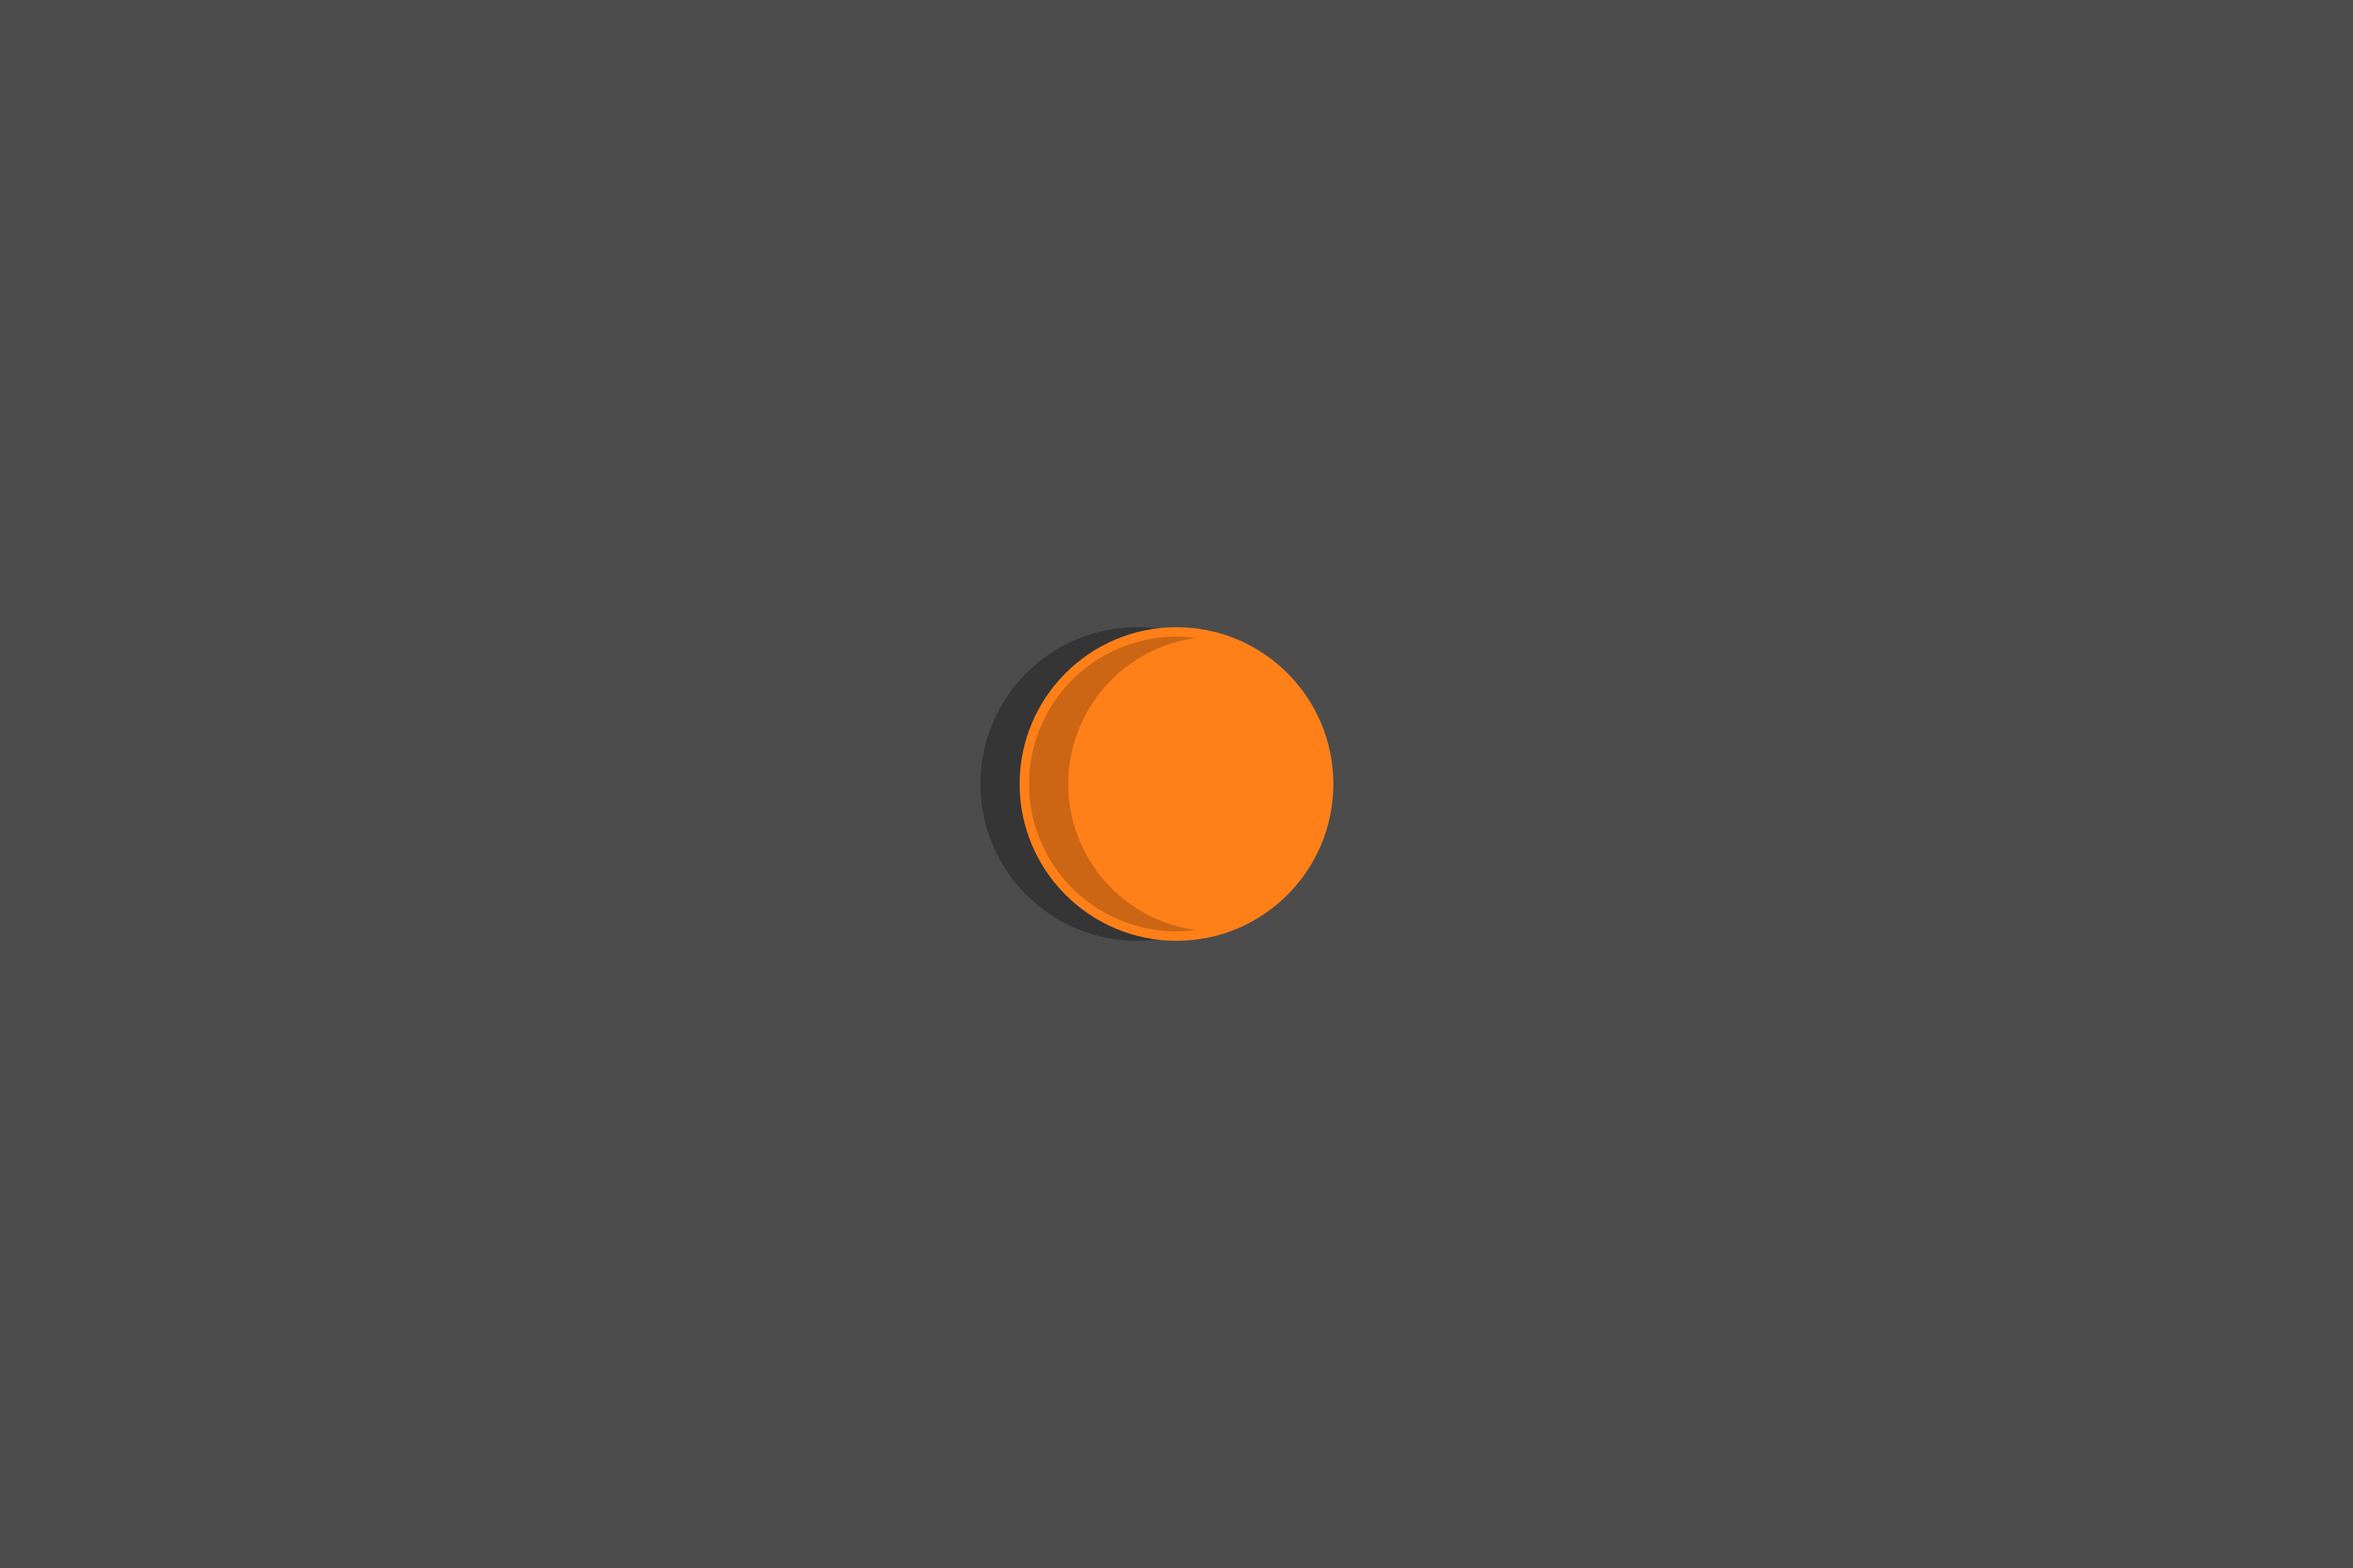
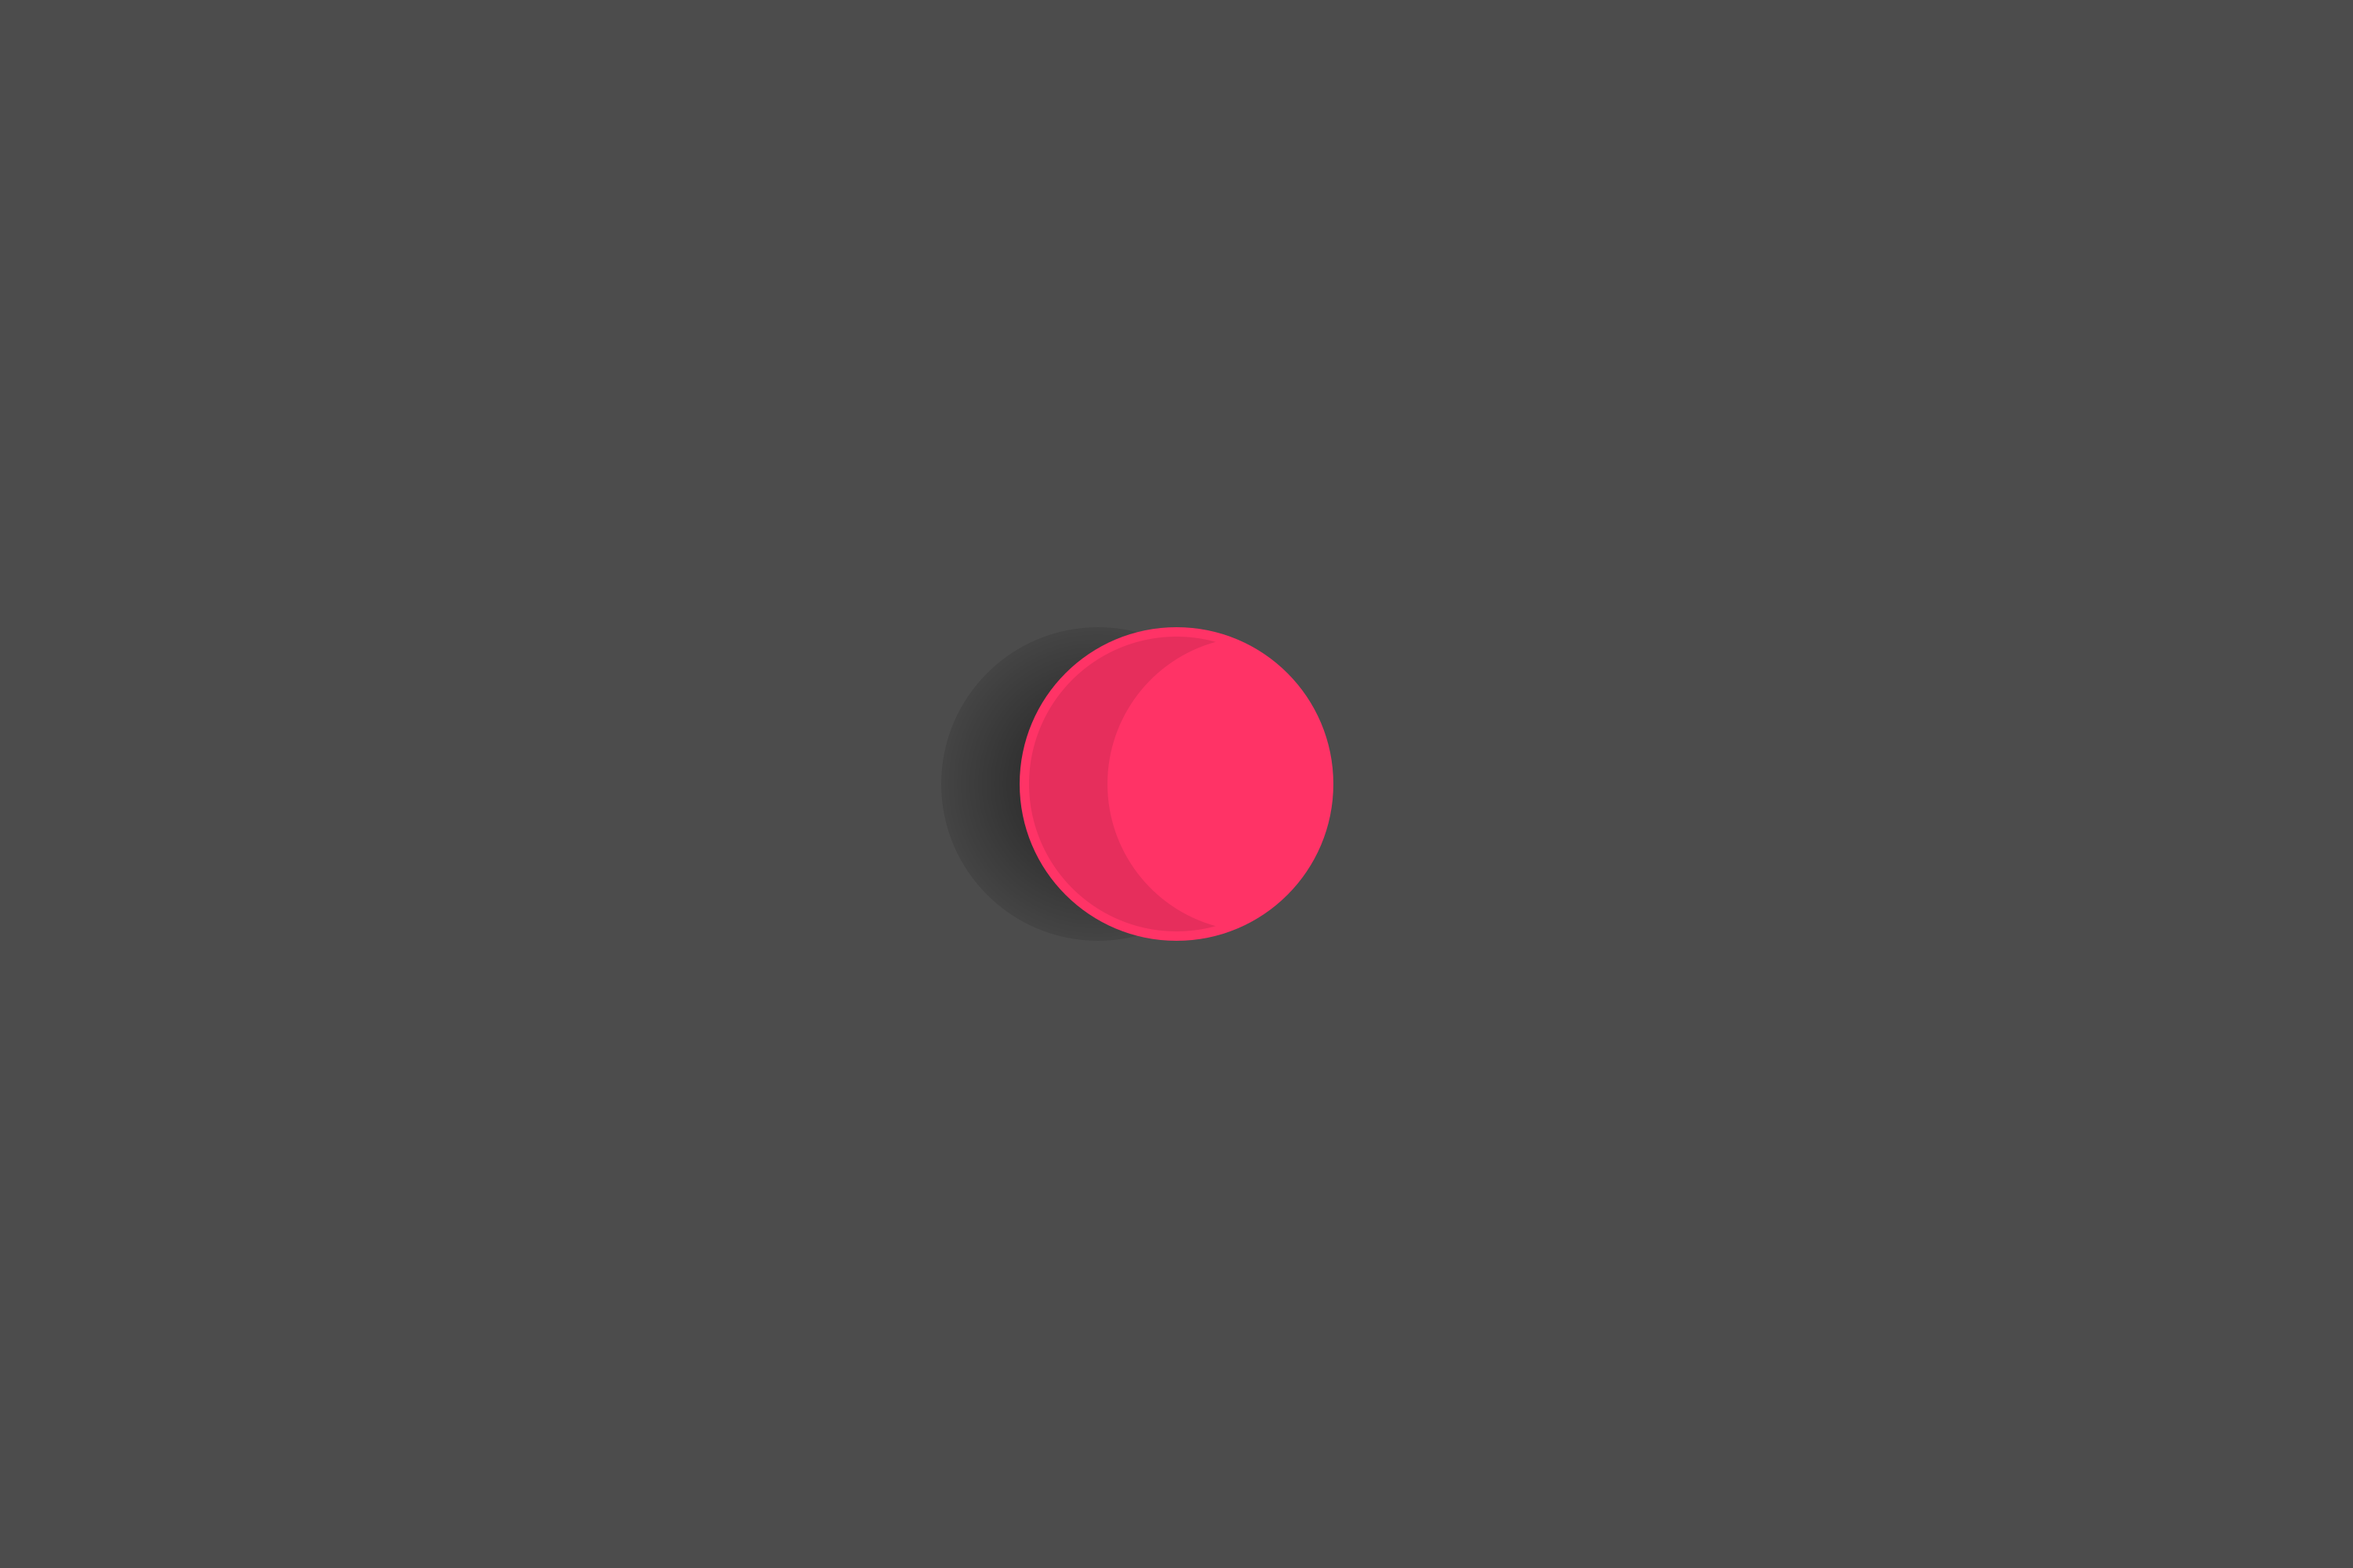
before source seperation

Changed region(s): [[0.434, 0.403, 0.589, 0.62]]

diff --git a/Cairo_Utils/shapes.py b/Cairo_Utils/shapes.py
@@ -22,10 +22,27 @@ class Shapes:
         ctx.fill()
 
     @classmethod
+    def draw_circle_gradient(cls, ctx, x, y, radius, rgba1, rgba2):
+        grd = cr.RadialGradient(x, y, 0, x, y, radius)
+        grd.add_color_stop_rgba(0, *Colour.unpack_rgba(rgba1))
+        grd.add_color_stop_rgba(1, *Colour.unpack_rgba(rgba2))
+        ctx.set_source(grd)
+        ctx.arc(x, y, radius, 0, 2 * math.pi)
+        ctx.fill()
+
+    @classmethod
     def draw_circle_fill_shade(cls, ctx, x, y,
                                radius, shift, rgba, rotate=0.0):
         x_shift, y_shift = shift * math.cos(rotate), shift * math.sin(rotate)
         cls.draw_circle_fill(ctx, x - x_shift, y - y_shift, radius, (0, 0, 0, 0.3))
+        cls.draw_circle_fill(ctx, x, y, radius, rgba)
+
+    @classmethod
+    def draw_circle_gradient_shade(cls, ctx, x, y,
+                               radius, shift, rgba, rotate=0.0):
+        x_shift, y_shift = shift * math.cos(rotate), shift * math.sin(rotate)
+        cls.draw_circle_gradient(ctx, x - x_shift, y - y_shift,
+                                 radius, (0, 0, 0, 0.6), (0, 0, 0, 0.1))
         cls.draw_circle_fill(ctx, x, y, radius, rgba)
 
     @classmethod
@@ -46,9 +63,14 @@ class Shapes:
         ctx.fill()
 
     @classmethod
-    def draw_sphere(cls, ctx, x, y, radius, shift, rgba, rotate=0):
+    def draw_simple_sphere(cls, ctx, x, y, radius, shift, rgba, rotate=0):
         cls.draw_circle_fill_shade(ctx, x, y, radius, shift, rgba, rotate)
         cls.draw_crescent(ctx, x, y, radius * 0.94, shift, (0, 0, 0, 0.2), rotate)
+
+    @classmethod
+    def draw_gradient_sphere(cls, ctx, x, y, radius, shift, rgba, rotate=0):
+        cls.draw_circle_gradient_shade(ctx, x, y, radius, shift, rgba, rotate)
+        cls.draw_crescent(ctx, x, y, radius * 0.94, shift, (0, 0, 0, 0.1), rotate)
 
 if __name__ == '__main__':
     from canvas import Canvas
@@ -63,6 +85,7 @@ if __name__ == '__main__':
     canvas.background_fill((.3, .3, .3))
 
     # Draw shapes
-    Shapes.draw_sphere(ctx, WIDTH / 2, HEIGHT / 2, 200, 50, (1, 0.5, 0.1))
+    Shapes.draw_gradient_sphere(ctx, WIDTH/2, HEIGHT/2,
+                                      200, 100, (1, 0.2, 0.4))
 
     ims.write_to_png('test.png')
